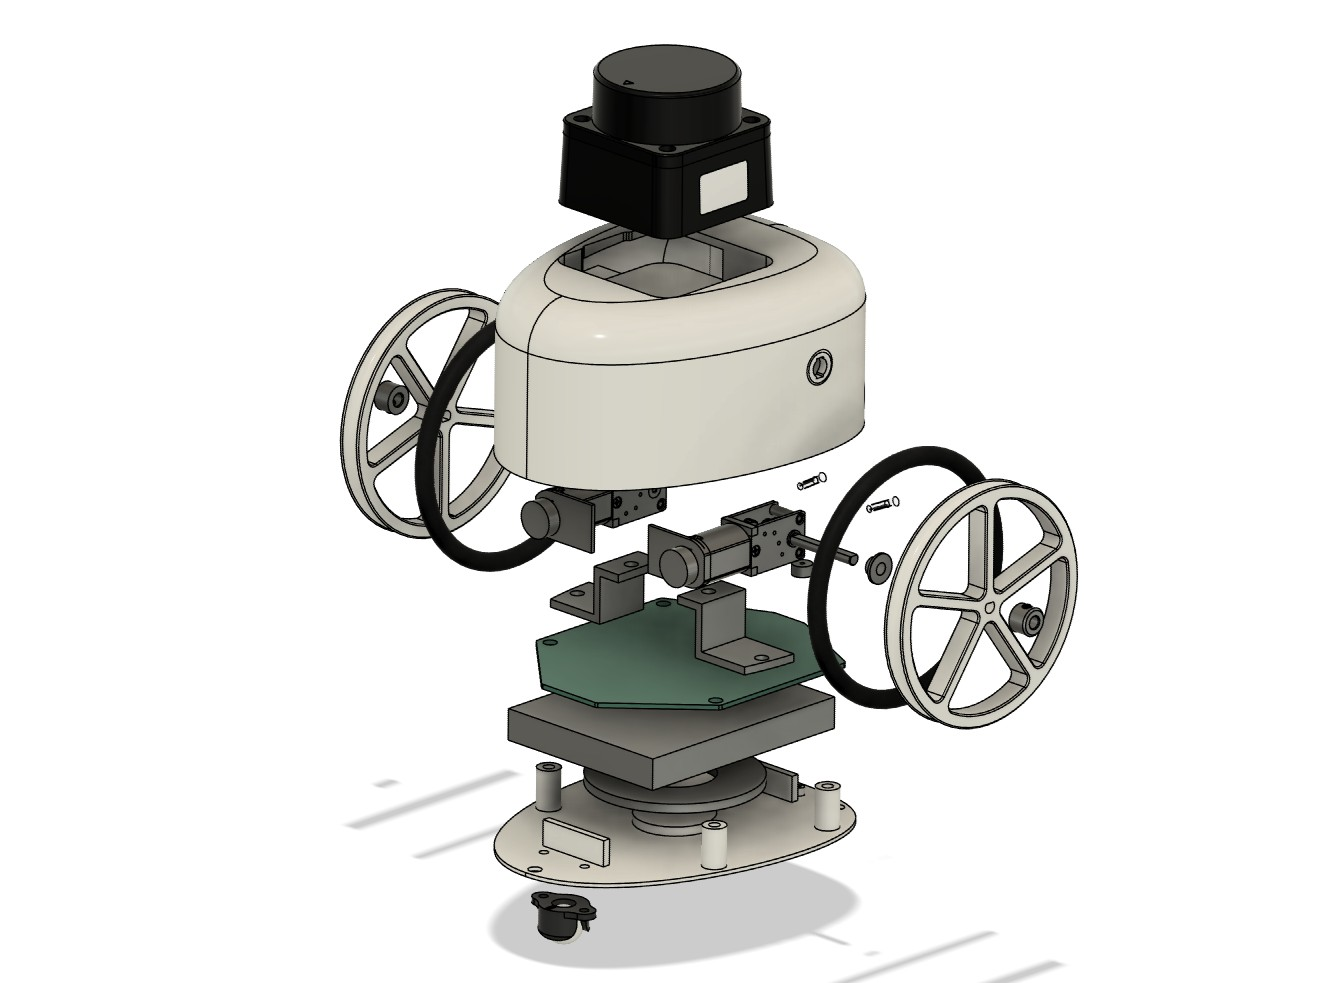
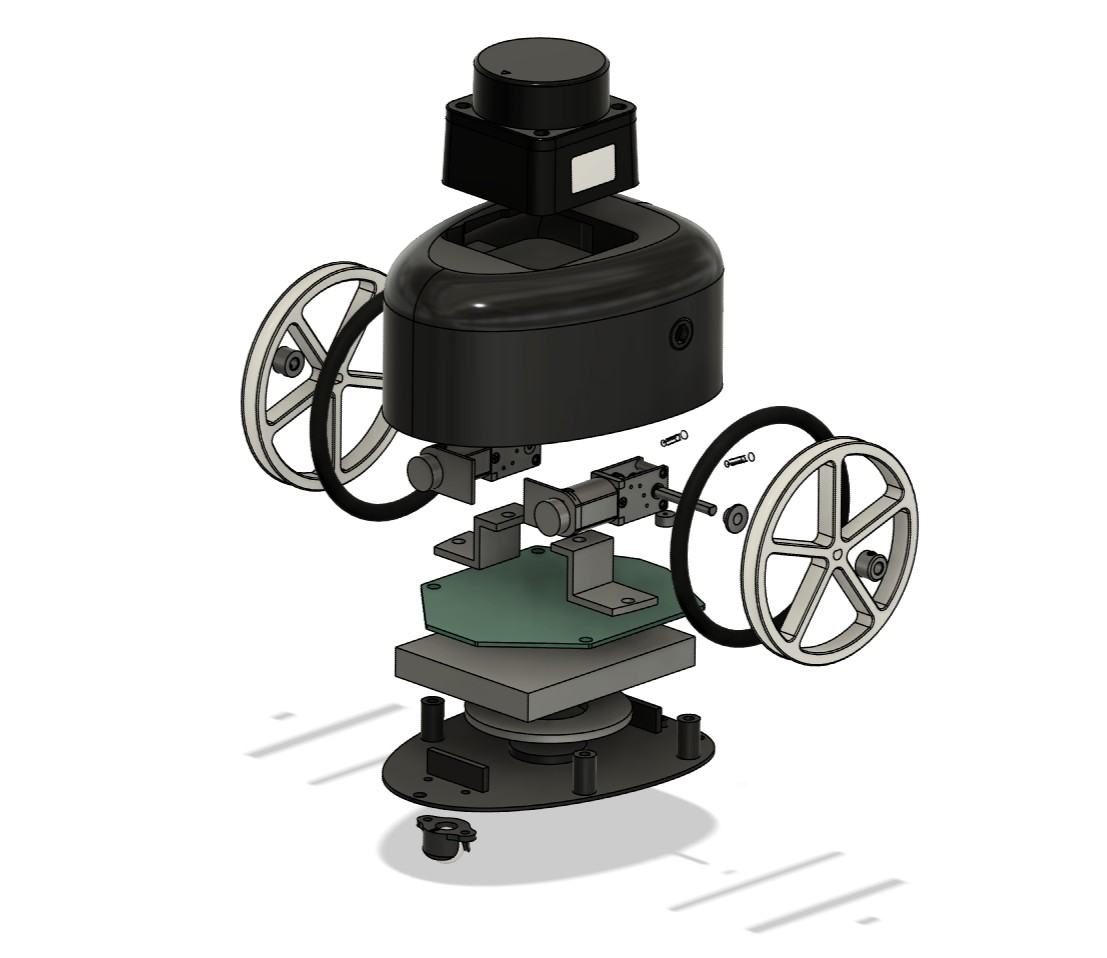
Update images and README

Changed region(s): [[0.215, 0.0303, 0.8293, 1.0], [0.7064, 0.8779, 0.7678, 0.9081], [0.6143, 0.999, 0.645, 1.0]]

diff --git a/README.md b/README.md
@@ -1,4 +1,5 @@
 # Palmbot
+
 [![CI status.](https://github.com/dchoi98/palmbot/actions/workflows/ci.yaml/badge.svg)](https://github.com/dchoi98/palmbot/actions/workflows/ci.yaml)
 
 Palmbot is a palm-sized differential-drive robot built on ROS 2, measuring 9.2 cm long, 9.6 cm wide, and 7.6 cm tall. The goal is a robot that maps a room with LiDAR, navigates on its own, and docks on a wireless charger when its battery runs low. Autonomous navigation works in simulation, and hardware is in progress.
@@ -42,3 +43,7 @@ palmbot/
 
 ## Licensing
 The contents of `hardware/` are licensed under CERN-OHL-S-2.0. This document and the contents of `docs/` are licensed under CC BY-SA 4.0. All other content in this repository is licensed under GPL-3.0-or-later.
+
+---
+
+© 2026. This work is openly licensed via [CC BY-SA 4.0](https://creativecommons.org/licenses/by-sa/4.0/).
